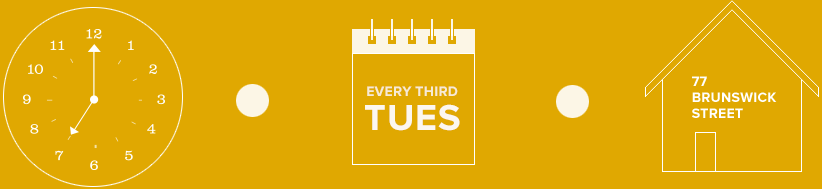
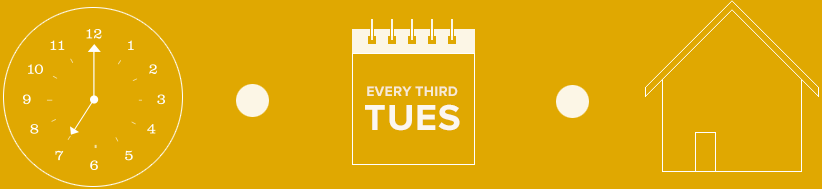
Replaced hopefully all Line references with Blonde, updated directions as well

Changed region(s): [[0.8212, 0.4762, 0.9428, 0.6349], [0.8212, 0.3968, 0.882, 0.4497]]

diff --git a/app/views/home/homepage.blade.php b/app/views/home/homepage.blade.php
@@ -102,7 +102,7 @@
 							<p>Once you find the venue, you&rsquo;ll be greeted with a friendly hello and the offer of a beer or soft drink. When we&rsquo;ve established numbers
 								on the night (there&rsquo;s always a few latecomers!), we&rsquo;ll make an order for food, which usually involves the famous <abbr title="Peppers Ham Pepperoni">PHP</abbr>izza&trade;!</p>
 
-							<p>While we wait for everyone to arrive, there&rsquo;s often a bit of Table Tennis to be played, or the Epic Fail compilation of the month to be watched on YouTube&trade;.
+							<p>While we wait for everyone to arrive, there&rsquo;s often a bit of chat, or the Epic Fail compilation of the month to be watched on YouTube&trade;.
 								Often people will talk about new things they&rsquo;ve seen, and bring them up on the big screen.
 							</p>
 
@@ -128,17 +128,26 @@
               <div class="span5">
                 <h4>The venue</h4>
                 <address>
-                  <a class="popup-gmaps" href="https://maps.google.co.uk/maps?q=line+digital,+77+brunswick+street&hl=en&ll=55.96036,-3.179963&spn=0.009597,0.01929&sll=55.960408,-3.180327&sspn=0.009597,0.01929&hq=line+digital,&hnear=77+Brunswick+St,+Edinburgh+EH7+5HS,+United+Kingdom&t=m&z=16&iwloc=A">Line Digital Ltd.</a><br />
-                  77 Brunswick Street, Edinburgh, EH7 5HS<br />
-                  <a href="http://www.line.uk.com" target="_blank">line.uk.com</a>
+                  <a target="_blank" href="https://www.google.co.uk/maps/place/Blonde+Digital/@55.977244,-3.173203,17z/data=!3m1!4b1!4m2!3m1!1s0x4887b80420069c0f:0x3e1e3ea5cc7b7db0">Blonde Digital Ltd.</a><br />
+                  86 Commercial Quay <br /> Edinburgh <br />EH6 6LX<br />
+                  <a href="http://www.blonde.net/" target="_blank">blonde.net</a>
                 </address>
-                <p>We are hidden down an alleyway on Brunswick Street. The blue door in this <a class="popup-gmaps" href="http://goo.gl/maps/kk2WJ">Google &quot;Street View&quot;</a> link is the secret to finding <abbr title="Edinburgh PHP User Group">edPUG</abbr>. Once you find the door, ring the buzzer.</p>
+
+                <p>We are tucked away on Commercial Quay, the cobbled area at the back of Commercial Street, overlooking the Scottish Govenment Building.
+                We are next to the Bond No 9 pub. If you are on Commercial Street looking at Bonde No 9 you are on the wrong side of the building (Sneak through the pub to the back!)</p>
+
+                <p>Take a look at this <a target="_blank" href="https://www.google.co.uk/maps/place/Commercial+Quay/@55.977202,-3.172609,3a,90y,199h,90t/data=!3m4!1e1!3m2!1seX62QGw88_ZOQZHwN2nFrw!2e0!4m2!3m1!1s0x4887b806a23c0307:0x3d884a37fb246bfb">Google &quot;Street View&quot;</a> link to get an idea of where you should be heading.</p>
+
+
                 <h4>By foot</h4>
-                <p>From Leith Walk, find <a class="popup-gmaps" href="http://goo.gl/maps/4MVOR">Vittoria's</a>. We are just a few doors down from there. From London Road there are many streets to take, so best point the GPS on your mobile phone to <a class="popup-gmaps" href="https://maps.google.co.uk/maps?q=line+digital,+77+brunswick+street&hl=en&ll=55.96036,-3.179963&spn=0.009597,0.01929&sll=55.960408,-3.180327&sspn=0.009597,0.01929&hq=line+digital,&hnear=77+Brunswick+St,+Edinburgh+EH7+5HS,+United+Kingdom&t=m&z=16&iwloc=A">the office address.</a></p>
+                <p>Find your way to the Shore in Leith, we are very close to the Cameo Bar (we are on the other side of the bridge from The Kings Wark). Find the entrance to Commercial Quay (a large green archway next to the seat made from half a boat) and keep walking until you find the buzzer at number 86.</p>
                 <h4>By bus</h4>
-                <p>There are many bus services to Easter Road and London road, so we recommend the <a href="http://lothianbuses.com/plan-a-journey/journey-planner">Lothian Buses</a> journey planner to find a bus from your part of town.</p>
+
+
+                <p>There are many bus services to Commercial Street, including the very frequent 22 (Also serviced by the 16, 35 and 36). We recommend the <a target="_blank" href="http://lothianbuses.com/plan-a-journey/journey-planner">Lothian Buses journey planner</a> to find a bus from your part of town.
+
                 <h4>By train</h4>
-                <p>The office is a 15 minute walk from <a href="http://www.networkrail.co.uk/edinburgh-waverley-station/departures-arrivals/">Edinburgh Waverley train station</a>. We recommend you leave the station via the <a class="popup-gmaps" href="http://goo.gl/maps/rfEmM">Calton Road exit.</a></p>
+                <p>Get off the train at <a href="http://www.networkrail.co.uk/edinburgh-waverley-station/departures-arrivals/">Edinburgh Waverley train station</a> and jump on the Number 22 bus until you reach Commercial Street. Jump off the first stop after it crosses the bridge in the Shore.</a></p>
               </div>
               <div class="offset1 span6" id="contact-us">
                

diff --git a/app/views/includes/meetup/full_meetup_detail.blade.php b/app/views/includes/meetup/full_meetup_detail.blade.php
@@ -10,13 +10,13 @@
   <address itemprop="location" itemscope itemtype="http://schema.org/Place">
     <div itemprop="address" itemscope itemtype="http://schema.org/PostalAddress">
       <span itemprop="streetAddress">
-        Line Digital Ltd.<br />
-        77 Brunswick Street<br />
+        Blonde Digital<br />
+        86 Commercial Quay<br />
       </span>
       <span itemprop="addressLocality">Edinburgh<br /></span>
-      <span itemprop="postalCode">EH7 5HS<br /></span>
+      <span itemprop="postalCode">EH6 6LX<br /></span>
     </div>
-		<a itemprop="url" href="http://www.line.uk.com" target="_blank">line.uk.com</a>
+		<a itemprop="url" href="http://www.blonde.net" target="_blank">blonde.net</a>
 	</address>
 	
 	<p>See the <a href="{{ URL::route('home') }}#contact">Find us</a> section below for more information on getting to the venue.</p>

diff --git a/app/views/includes/footer.blade.php b/app/views/includes/footer.blade.php
@@ -2,8 +2,8 @@
       <section class="container">
         <div class="row">
           <div class="span5 pull-left">
-            <p>Venue / PHPizza and drinks sponsored by Line. Some talks may have their own sponsor.</p>			
-            <p class="line-logo"><a href="http://www.line.uk.com/">Sponsored by Line</a>, an Edinburgh Digital Agency</p>		
+            <p>Venue / PHPizza and drinks sponsored by Blonde Digital. Some talks may have their own sponsor.</p>			
+            <p class="line-logo"><a href="http://www.blonde.net/">Sponsored by Blonde Digital</a>, an Edinburgh Digital Agency</p>		
           </div>
         <div class="span4 offset3">
 			<p>Useful links</p>
